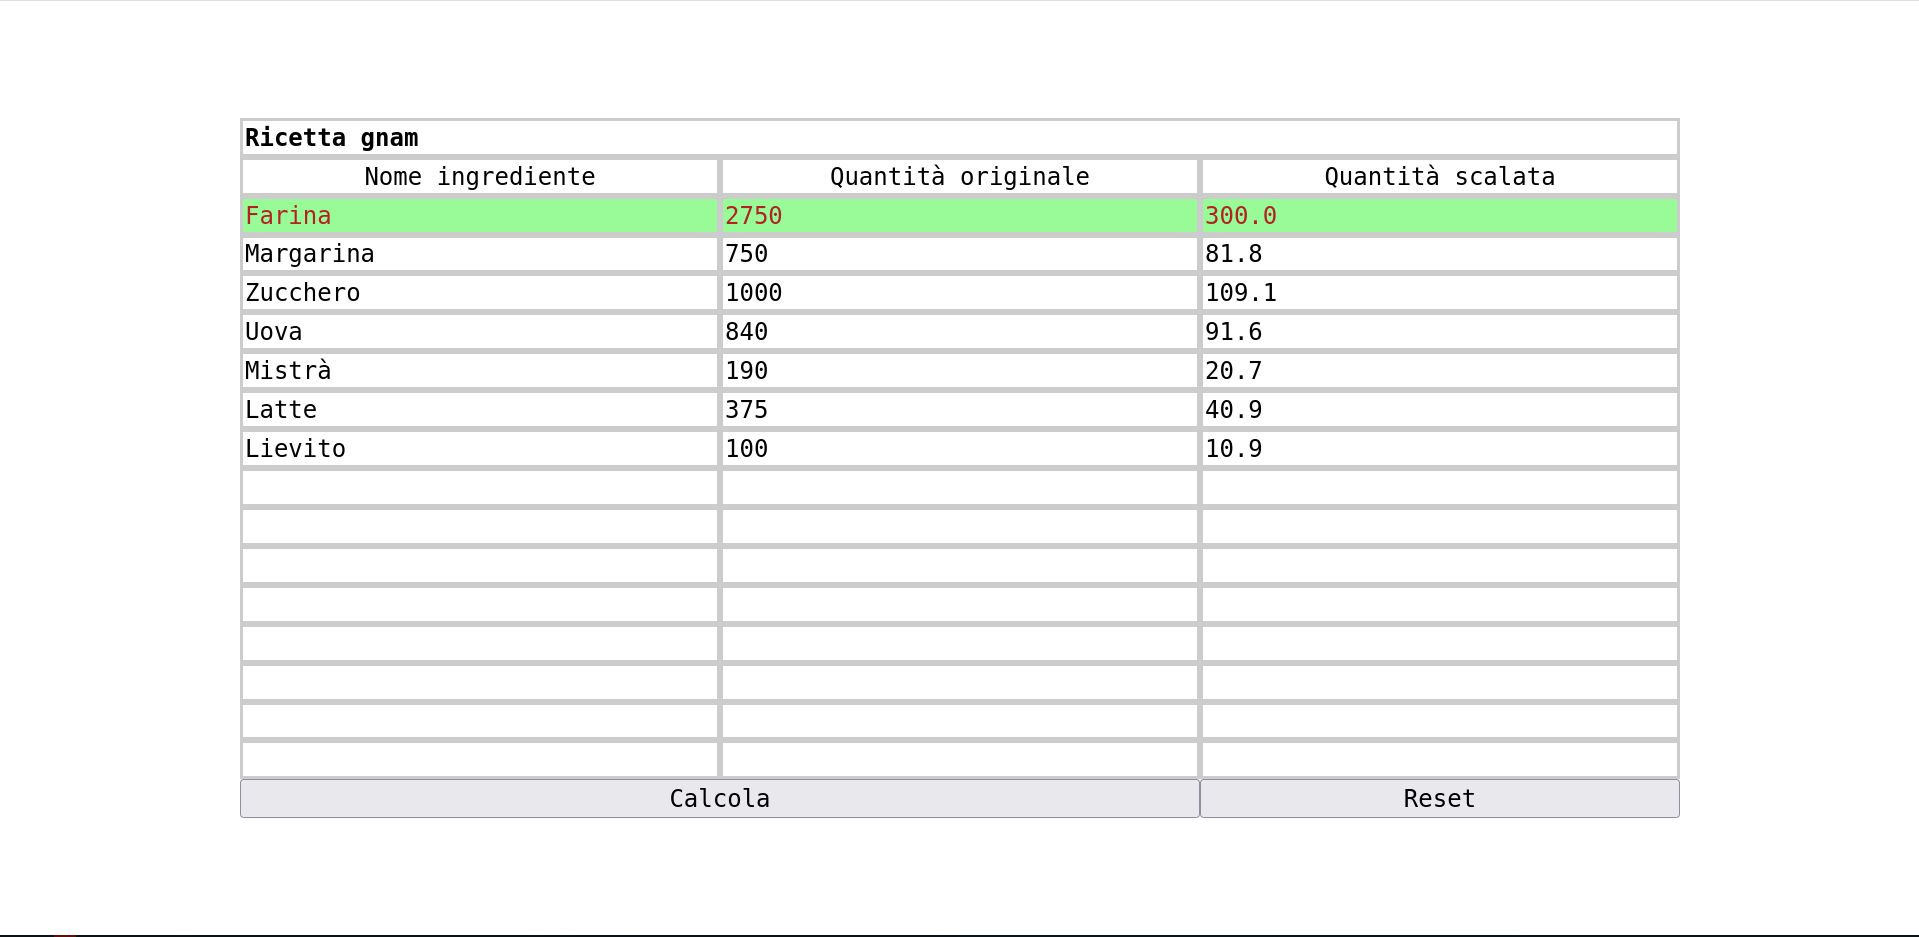
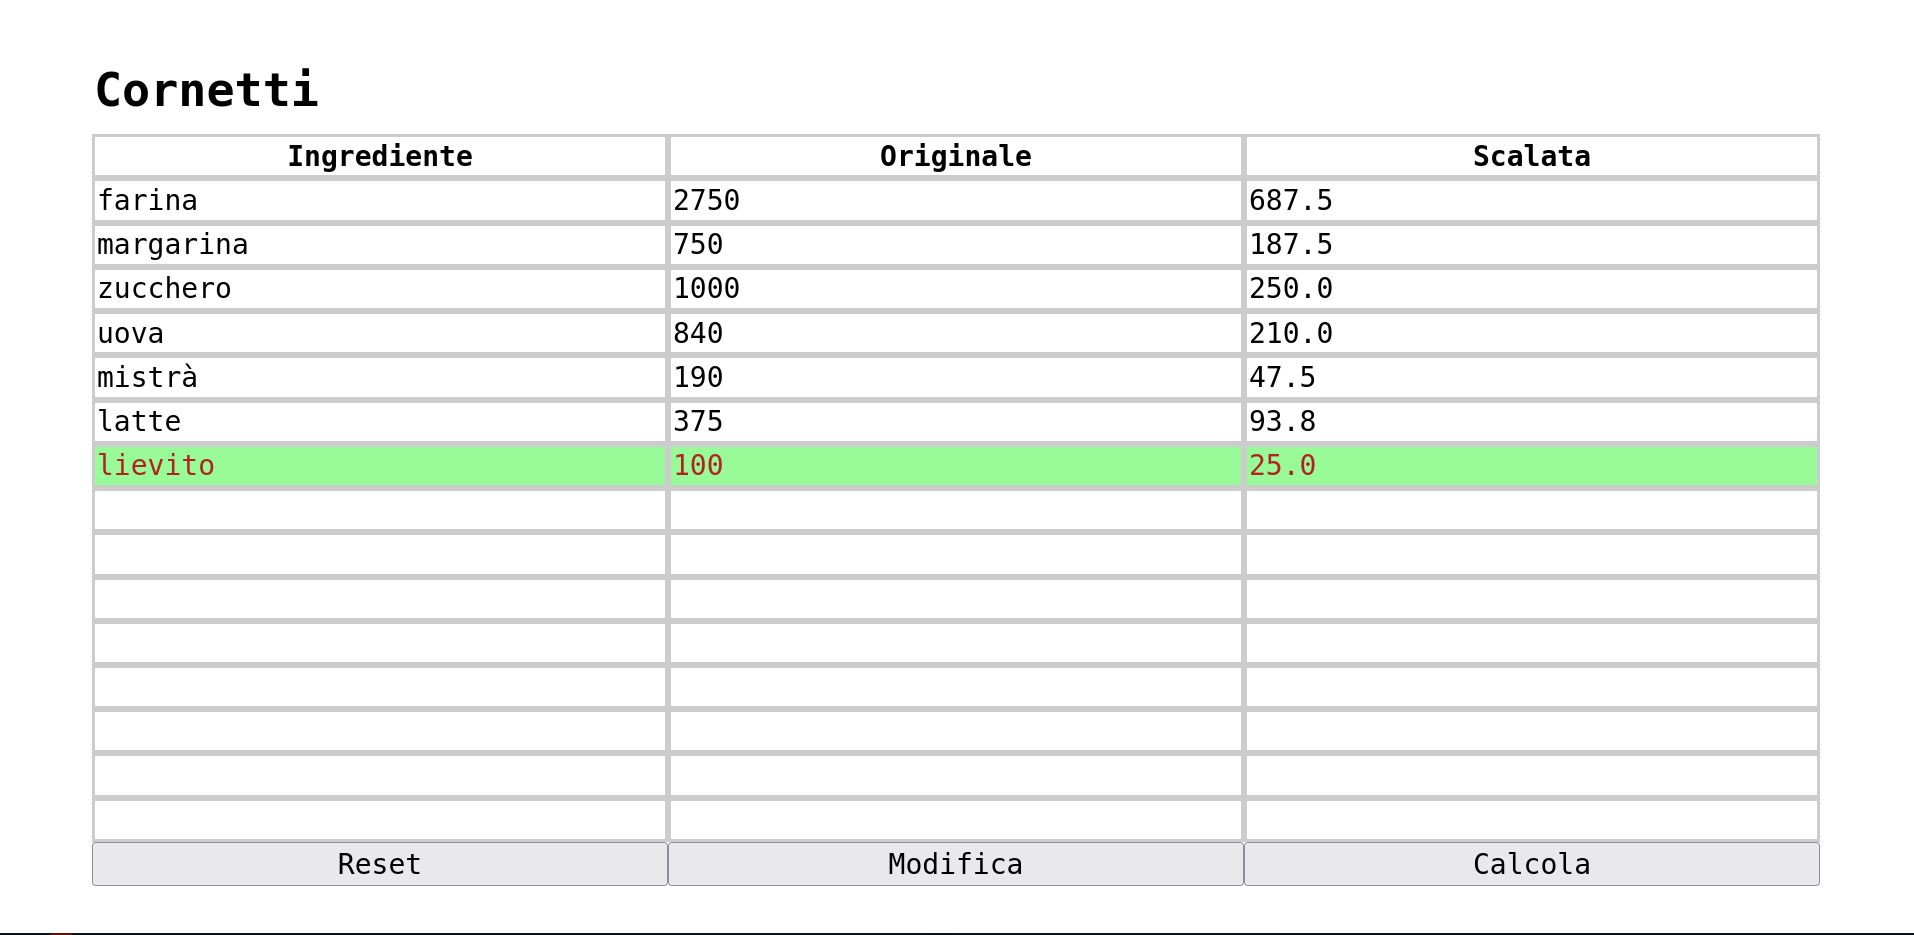
Modificata interfaccia con tre pulsanti. Aggiornate le funzioni di calcolo, modifica riferimento e reset completo.

Changed region(s): [[0.0308, 0.062, 0.9556, 0.9615]]

diff --git a/code.js b/code.js
@@ -3,6 +3,7 @@ class System
     constructor()
     {
         this.State_N = 0;
+        this.State_RefIndex = -1;
     }
 
     EventClean()
@@ -63,18 +64,26 @@ class System
         }
 
         Element = document.createElement( "button" );
-        Element.id = "Evaluate";
-        Element.className = "EvaluateStyle";
-        Element.textContent = "Calcola";
-        Element.onclick = () => PageSystem.EventEvaluate(); // se metto direttamente la funzione perde this
+        Element.id = "Reset";
+        Element.className = "ButtonStyle";
+        Element.textContent = "Reset";
+        Element.onclick = () => PageSystem.EventReset(); // se metto direttamente la funzione perde this
         App.append( Element );
 
         Element = document.createElement( "button" );
         Element.id = "Reset";
-        Element.className = "ResetStyle";
-        Element.textContent = "Reset";
-        Element.onclick = () => PageSystem.EventReset(); // se metto direttamente la funzione perde this
+        Element.className = "ButtonStyle";
+        Element.textContent = "Modifica";
+        Element.onclick = () => PageSystem.EventEdit(); // se metto direttamente la funzione perde this
         App.append( Element );
+
+        Element = document.createElement( "button" );
+        Element.id = "Evaluate";
+        Element.className = "ButtonStyle";
+        Element.textContent = "Calcola";
+        Element.onclick = () => PageSystem.EventEvaluate(); // se metto direttamente la funzione perde this
+        App.append( Element );
+
         // aggiorna lo stato interno
         this.State_N = N;
     }
@@ -83,12 +92,12 @@ class System
     {
         let OriginalRef;
         let ScaledRef;
-        let Cur;
+        let CurRef;
         let Found = false;
 
-        for( Cur = 0; Cur < this.State_N; Cur ++ )
+        for( CurRef = 0; CurRef < this.State_N; CurRef ++ )
         {
-            ScaledRef = parseFloat( document.getElementById( "Scale" + Cur ).value );
+            ScaledRef = parseFloat( document.getElementById( "Scale" + CurRef ).value );
             if( !isNaN( ScaledRef ) )
             { 
                 Found = true;
@@ -101,31 +110,35 @@ class System
             return;
         }
 
-        OriginalRef = parseFloat( document.getElementById( "Orig" + Cur ).value );
+        OriginalRef = parseFloat( document.getElementById( "Orig" + CurRef ).value );
         if( isNaN( OriginalRef ) )
         {
             alert( "Inserisci un valore valido nella ricetta originale in corrispondenza del vincolo scalato" );
             return;
         }
 
-        document.getElementById( "Name" + Cur ).style.backgroundColor = "palegreen";
-        document.getElementById( "Name" + Cur ).style.color = "firebrick";
+        document.getElementById( "Name" + CurRef ).style.backgroundColor = "palegreen";
+        document.getElementById( "Name" + CurRef ).style.color = "firebrick";
 
-        document.getElementById( "Orig" + Cur ).style.backgroundColor = "palegreen";
-        document.getElementById( "Orig" + Cur ).style.color = "firebrick";
+        document.getElementById( "Orig" + CurRef ).style.backgroundColor = "palegreen";
+        document.getElementById( "Orig" + CurRef ).style.color = "firebrick";
 
-        document.getElementById( "Scale" + Cur ).style.backgroundColor = "palegreen";
-        document.getElementById( "Scale" + Cur ).style.color = "firebrick";
+        document.getElementById( "Scale" + CurRef ).style.backgroundColor = "palegreen";
+        document.getElementById( "Scale" + CurRef ).style.color = "firebrick";
 
         let OriginalTmp;
-        for( Cur = 0; Cur < this.State_N; Cur ++ )
+        let CurEvaluate;
+
+        for( CurEvaluate = 0; CurEvaluate < this.State_N; CurEvaluate ++ )
         {
-            OriginalTmp = parseFloat( document.getElementById( "Orig" + Cur ).value );
+            OriginalTmp = parseFloat( document.getElementById( "Orig" + CurEvaluate ).value );
             if( !isNaN( OriginalTmp ) )
             {
-                document.getElementById( "Scale" + Cur ).value = ( OriginalTmp * ScaledRef / OriginalRef ).toFixed( 1 ); 
+                document.getElementById( "Scale" + CurEvaluate ).value = ( OriginalTmp * ScaledRef / OriginalRef ).toFixed( 1 ); 
             }
         }
+
+        this.State_RefIndex = CurRef;
     }
 
     EventReset()
@@ -134,6 +147,27 @@ class System
 
         this.EventClean();
         this.EventInit( BackupN );
+    }
+
+    EventEdit()
+    {
+        for( let Cur = 0; Cur < this.State_N; Cur ++ )
+        {
+            document.getElementById( "Scale" + Cur ).value = '';
+            if( Cur === this.State_RefIndex )
+            {
+                document.getElementById( "Name" + Cur ).style.backgroundColor = "white";
+                document.getElementById( "Name" + Cur ).style.color = "black"; 
+
+                document.getElementById( "Orig" + Cur ).style.backgroundColor = "white";
+                document.getElementById( "Orig" + Cur ).style.color = "black"; 
+
+                document.getElementById( "Scale" + Cur ).style.backgroundColor = "white";
+                document.getElementById( "Scale" + Cur ).style.color = "black"; 
+            }
+        }
+
+        this.State_RefIndex = -1;
     }
 }
 

diff --git a/style.css b/style.css
@@ -33,20 +33,7 @@ body {
     font-size: 3cqmin;   
 }
 
-.EvaluateStyle
-{
-    display: grid;
-    width: 100%;
-    height: 100%;
-    grid-column: span 2;
-    place-items: center;
-    box-sizing: border-box;
-    font-family: monospace;
-    font-weight: normal;
-    font-size: 3cqmin; 
-}
-
-.ResetStyle
+.ButtonStyle
 {
     display: grid;
     width: 100%;